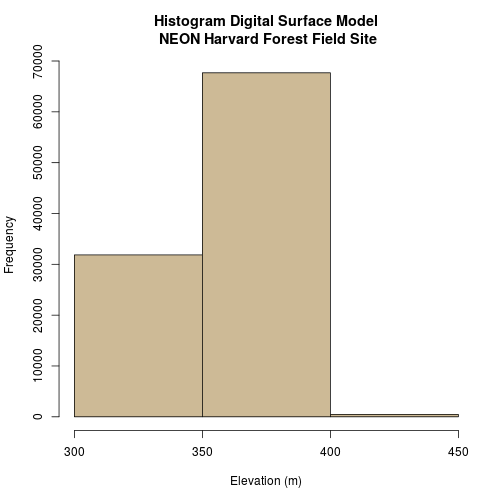
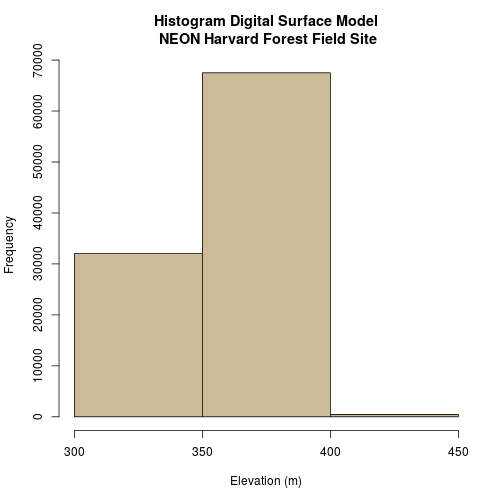
re-add line ending spaces to challenge chunks

diff --git a/episodes/02-raster-plot.md b/episodes/02-raster-plot.md
@@ -132,7 +132,7 @@ break values.
 
 ~~~
 # Plot distribution of raster values
-DSMhist < -hist(DSM_HARV,
+DSMhist <- hist(DSM_HARV,
      breaks = 3,
      main = "Histogram Digital Surface Model\n NEON Harvard Forest Field Site",
      col = "wheat3",  # changes bin color
@@ -143,11 +143,12 @@ DSMhist < -hist(DSM_HARV,
 
 
 ~~~
-Error in eval(expr, envir, enclos): object 'DSMhist' not found
+Warning in .hist1(x, maxpixels = maxpixels, main = main, plot = plot, ...):
+4% of the raster cells were used. 100000 values used.
 ~~~
 {: .error}
 
-
+<img src="../fig/rmd-create-histogram-breaks-1.png" title="plot of chunk create-histogram-breaks" alt="plot of chunk create-histogram-breaks" style="display: block; margin: auto;" />
 
 ~~~
 # Where are breaks and how many pixels in each category?
@@ -158,9 +159,9 @@ DSMhist$breaks
 
 
 ~~~
-Error in eval(expr, envir, enclos): object 'DSMhist' not found
+[1] 300 350 400 450
 ~~~
-{: .error}
+{: .output}
 
 
 
@@ -172,9 +173,9 @@ DSMhist$counts
 
 
 ~~~
-Error in eval(expr, envir, enclos): object 'DSMhist' not found
+[1] 32041 67502   457
 ~~~
-{: .error}
+{: .output}
 
 Warning message!? Remember, the default for the histogram is to include only a
 subset of 100,000 values. We could force it to show all the pixel values or we
@@ -376,18 +377,70 @@ transparent, 1 being opaque). Note that here we used the color palette
 <a href="https://stat.ethz.ch/R-manual/R-devel/library/grDevices/html/palettes.html" target="_blank">`R` color palettes documentation</a>.
 
 > ## Challenge: Create DTM & DSM for SJER
+> 
 > Use the files in the `NEON_RemoteSensing/SJER/` directory to create a Digital
 Terrain Model map and Digital Surface Model map of the San Joaquin Experimental
 Range field site.
->
+> 
 > Make sure to:
->
- * include hillshade in the maps,
- * label axes on the DSM map and exclude them from the DTM map,
- * a title for the maps,
- * experiment with various alpha values and color palettes to represent the
+> 
+> * include hillshade in the maps,
+> * label axes on the DSM map and exclude them from the DTM map,
+> * a title for the maps,
+> * experiment with various alpha values and color palettes to represent the
  data.
+>
+> > ## Answers
+> > 
+> > 
+> > ~~~
+> > # CREATE DSM MAPS
+> > # import DSM
+> > DSM_SJER <- raster("data/NEON-DS-Airborne-Remote-Sensing/SJER/DSM/SJER_dsmCrop.tif")
+> > # import DSM hillshade
+> > DSM_hill_SJER <- raster("data/NEON-DS-Airborne-Remote-Sensing/SJER/DSM/SJER_dsmHill.tif")
+> > 
+> > # plot hillshade using a grayscale color ramp that looks like shadows.
+> > plot(DSM_hill_SJER,
+> >     col = grey(1:100/100),  #create a color ramp of grey colors
+> >     legend = FALSE,
+> >     main = "DSM with Hillshade\n NEON SJER Field Site",
+> >     axes = FALSE)
+> > 
+> > # add the DSM on top of the hillshade
+> > plot(DSM_SJER,
+> >      col = terrain.colors(100),
+> >      alpha = 0.7,
+> >      add = TRUE,
+> >      legend = FALSE)
+> > ~~~
+> > {: .r}
+> > 
+> > <img src="../fig/rmd-challenge-hillshade-layering-1.png" title="plot of chunk challenge-hillshade-layering" alt="plot of chunk challenge-hillshade-layering" style="display: block; margin: auto;" />
+> > 
+> > ~~~
+> > # CREATE SJER DTM MAP
+> > # import DTM
+> > DTM_SJER <- raster("data/NEON-DS-Airborne-Remote-Sensing/SJER/DTM/SJER_dtmCrop.tif")
+> > # import DTM hillshade
+> > DTM_hill_SJER <- raster("data/NEON-DS-Airborne-Remote-Sensing/SJER/DTM/SJER_dtmHill.tif")
+> > 
+> > # plot hillshade using a grayscale color ramp that looks like shadows.
+> > plot(DTM_hill_SJER,
+> >     col = grey(1:100/100),  #create a color ramp of grey colors
+> >     legend = FALSE,
+> >     main = "DTM with Hillshade\n NEON SJER Field Site",
+> >     axes = FALSE)
+> > 
+> > # add the DSM on top of the hillshade
+> > plot(DTM_SJER,
+> >      col = terrain.colors(100),
+> >      alpha = 0.4,
+> >      add = TRUE,
+> >      legend = FALSE)
+> > ~~~
+> > {: .r}
+> > 
+> > <img src="../fig/rmd-challenge-hillshade-layering-2.png" title="plot of chunk challenge-hillshade-layering" alt="plot of chunk challenge-hillshade-layering" style="display: block; margin: auto;" />
+> {: .solution}
 {: .challenge}
-
-
-<img src="../fig/rmd-challenge-hillshade-layering-1.png" title="plot of chunk challenge-hillshade-layering" alt="plot of chunk challenge-hillshade-layering" style="display: block; margin: auto;" /><img src="../fig/rmd-challenge-hillshade-layering-2.png" title="plot of chunk challenge-hillshade-layering" alt="plot of chunk challenge-hillshade-layering" style="display: block; margin: auto;" />

diff --git a/episodes/01-raster-structure.md b/episodes/01-raster-structure.md
@@ -647,18 +647,20 @@ It is ideal to use `GDALinfo` to explore your file **before** reading it into
 `R`.
 
 > ## Challenge: Explore Raster Metadata
->
+> 
 > Without using the `raster` function to read the file into `R`, determine the following about the  `NEON-DS-Airborne-Remote-Sensing/HARV/DSM/HARV_DSMhill.tif` file:
->
+> 
 > 1. Does this file has the same `CRS` as `DSM_HARV`?
 > 2. What is the `NoDataValue`?
 > 3. What is resolution of the raster data?
 > 4. How large would a 5x5 pixel area would be on the Earth's surface?
 > 5. Is the file a multi- or single-band raster?
->
+> 
 > Notice: this file is a `hillshade`. We will learn about hillshades in
 <a href="{{ site.baseurl }}/R/Multi-Band-Rasters-In-R/" target="_blank">  Work with Multi-band Rasters: Images in R</a>.
+> > 
 > > ## Answers
+> > 
 > > 
 > > ~~~
 > > rows        1367 
